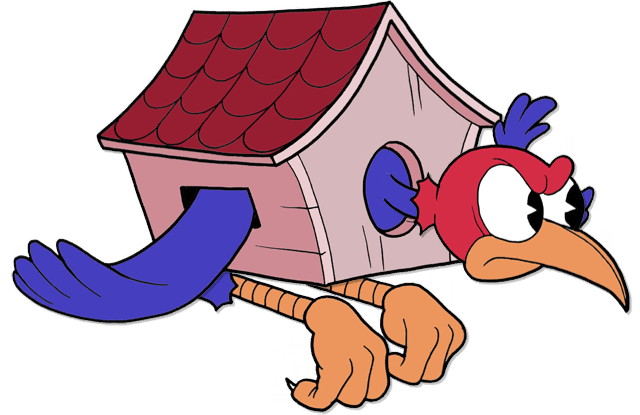
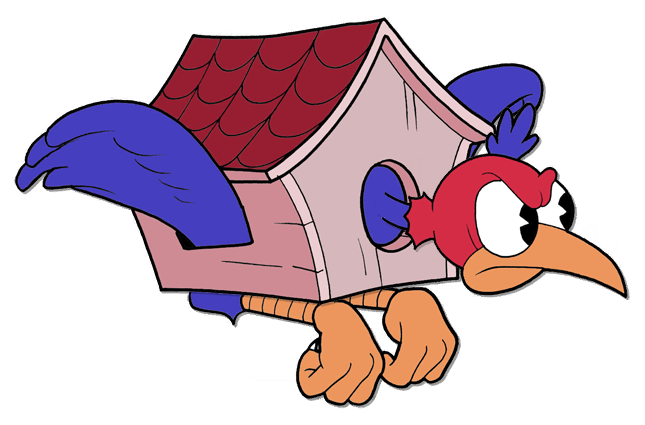
Fixed the bird flapping and added all bird proj sprites

diff --git a/src/Version3/OmegaFight3.java b/src/Version3/OmegaFight3.java
@@ -734,8 +734,8 @@ public class OmegaFight3 extends JPanel implements MouseListener, MouseMotionLis
         if (screenShakeCounter != 0) {
             screenShakeCounter--;
             if (screenShakeCounter % SCREEN_SHAKE_HZ == 0) {
-                screenCoord.x = randomSign() * screenShakeCounter / 2 * Math.random();
-                screenCoord.y = randomSign() * screenShakeCounter / 2 * Math.random();
+                screenCoord.x = randomSign() * screenShakeCounter * Math.random();
+                screenCoord.y = randomSign() * screenShakeCounter * Math.random();
             }
             g.translate((int) screenCoord.x, (int) screenCoord.y);
         }
@@ -1593,7 +1593,7 @@ public class OmegaFight3 extends JPanel implements MouseListener, MouseMotionLis
 
         // Ready fade out transition
         else if (transitiono == READY_FADE) {
-            drawFade(1 - (double) transitionCounter / READY_FADE_LEN, g2);
+            drawFade(1 - (double) (transitionCounter - 1) / READY_FADE_LEN, g2);
         }
 
         // Countdown transition

diff --git a/src/Version3/Bird.java b/src/Version3/Bird.java
@@ -18,7 +18,7 @@ public class Bird extends Boss {
     public static final int TWEAK = 3;
     public static final int NO_OF_STATES = 4;
     public static final int TRANSITION_TIME = 120;
-    public static final Coord[] STATE_SIZE = {new Coord(520, 530), new Coord(640, 415), new Coord(715, 495), new Coord(710, 670)};
+    public static final Coord[] STATE_SIZE = {new Coord(520, 530), new Coord(645, 425), new Coord(720, 485), new Coord(710, 670)};
     public static final int[] STATE_SPRITE_CHANGE_HZ = {10, 5, 5, 7};
     public static final Coord[] STATE_COORD = {null, new Coord(OmegaFight3.SCREEN_SIZE.x - STATE_SIZE[IDLE].x / 2, OmegaFight3.SCREEN_SIZE.y / 2),
         new Coord(STATE_SIZE[VOMIT].x / 2, OmegaFight3.SCREEN_SIZE.y / 2),
